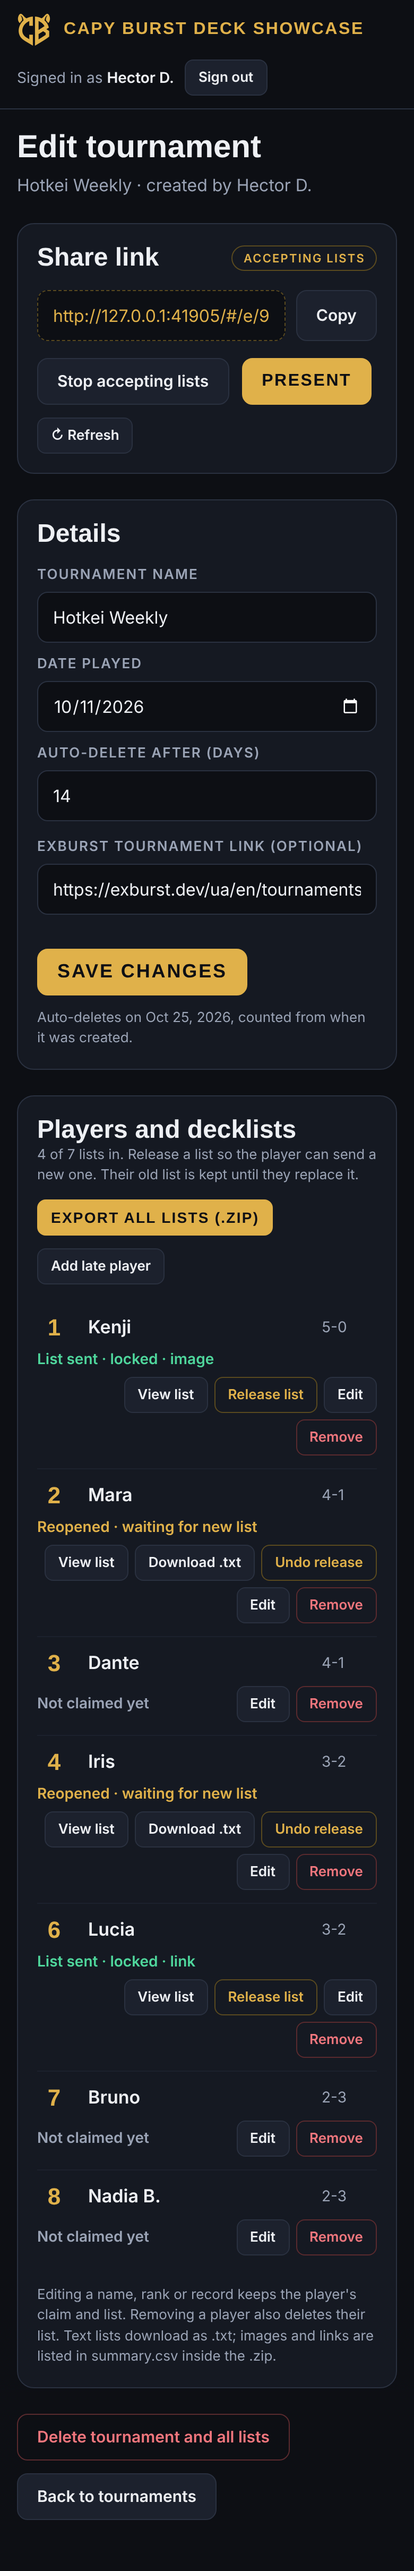
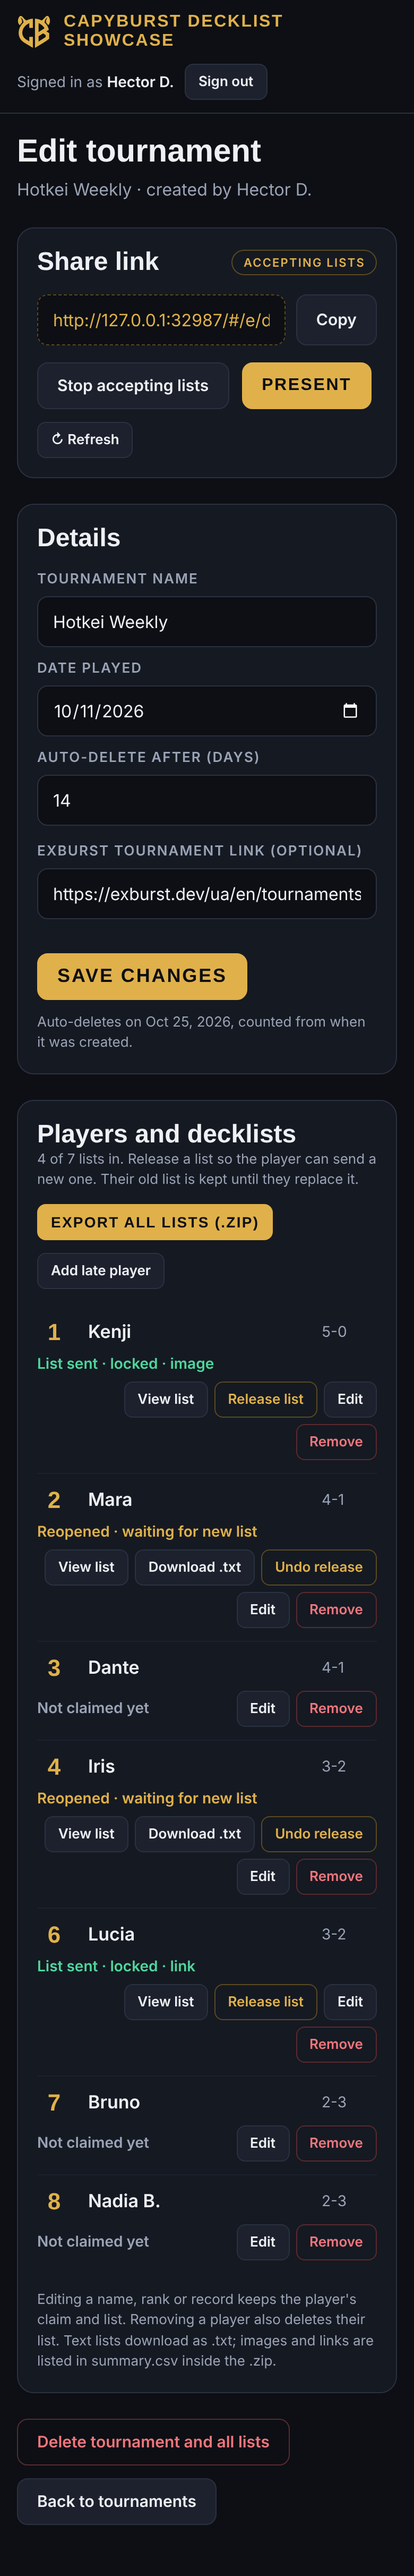
Rename to CapyBurst Decklist Showcase
Claude-Session: https://claude.ai/code/session_01AVt5hWhybi9vEcXTd5Rvm1

diff --git a/config.js b/config.js
@@ -1,7 +1,7 @@
 // Edit this file to point the site to your Apps Script web app (the URL ending in /exec).
 window.DS_CONFIG = {
   API_URL: 'https://script.google.com/macros/s/AKfycbziQ05_vDVf1-AIjB5KO3-IbY8r7OX8QF_PHbaDz6C-gdRiV7s0xeQWBeiUrQphUiMZ/exec',
-  APP_NAME: 'CAPY BURST Deck Showcase',
+  APP_NAME: 'CapyBurst Decklist Showcase',
   // Put the team logo in assets/ and set its file name here (PNG, SVG or WEBP, square or wide).
   LOGO_URL: 'assets/logo.png'
 };

diff --git a/index.html b/index.html
@@ -6,7 +6,7 @@
 <meta name="robots" content="noindex, nofollow">
 <meta name="referrer" content="no-referrer">
 <meta name="color-scheme" content="dark">
-<title>CAPY BURST Deck Showcase</title>
+<title>CapyBurst Decklist Showcase</title>
 <link rel="icon" type="image/png" href="assets/logo.png">
 <link rel="preconnect" href="https://fonts.googleapis.com">
 <link rel="preconnect" href="https://fonts.gstatic.com" crossorigin>

diff --git a/CHANGELOG.md b/CHANGELOG.md
@@ -1,7 +1,7 @@
 # Changelog
 
 ## 0.1.1
-- Nombre visible para todos: **CAPY BURST Deck Showcase** (cabecera, pestaña del navegador y presentación). Se cambia en `config.js` (`APP_NAME`).
+- Nombre visible para todos: **CapyBurst Decklist Showcase** (cabecera, pestaña del navegador y presentación). Se cambia en `config.js` (`APP_NAME`).
 - Logo de CapyBros (`assets/logo.png`, en dorado sobre fondo transparente) en la cabecera y como ícono de la pestaña. Se cambia con `LOGO_URL` en `config.js`; si el archivo falta, se usa el ícono de siempre.
 - Botón **Refresh** (solo manual, sin actualización automática, para no saturar Apps Script) en panel, editar torneo y página del jugador. En la presentación: botón o tecla **R** para recargar las listas sin perder la posición.
 - Corregido "Hector D.." (doble punto) en el panel.
